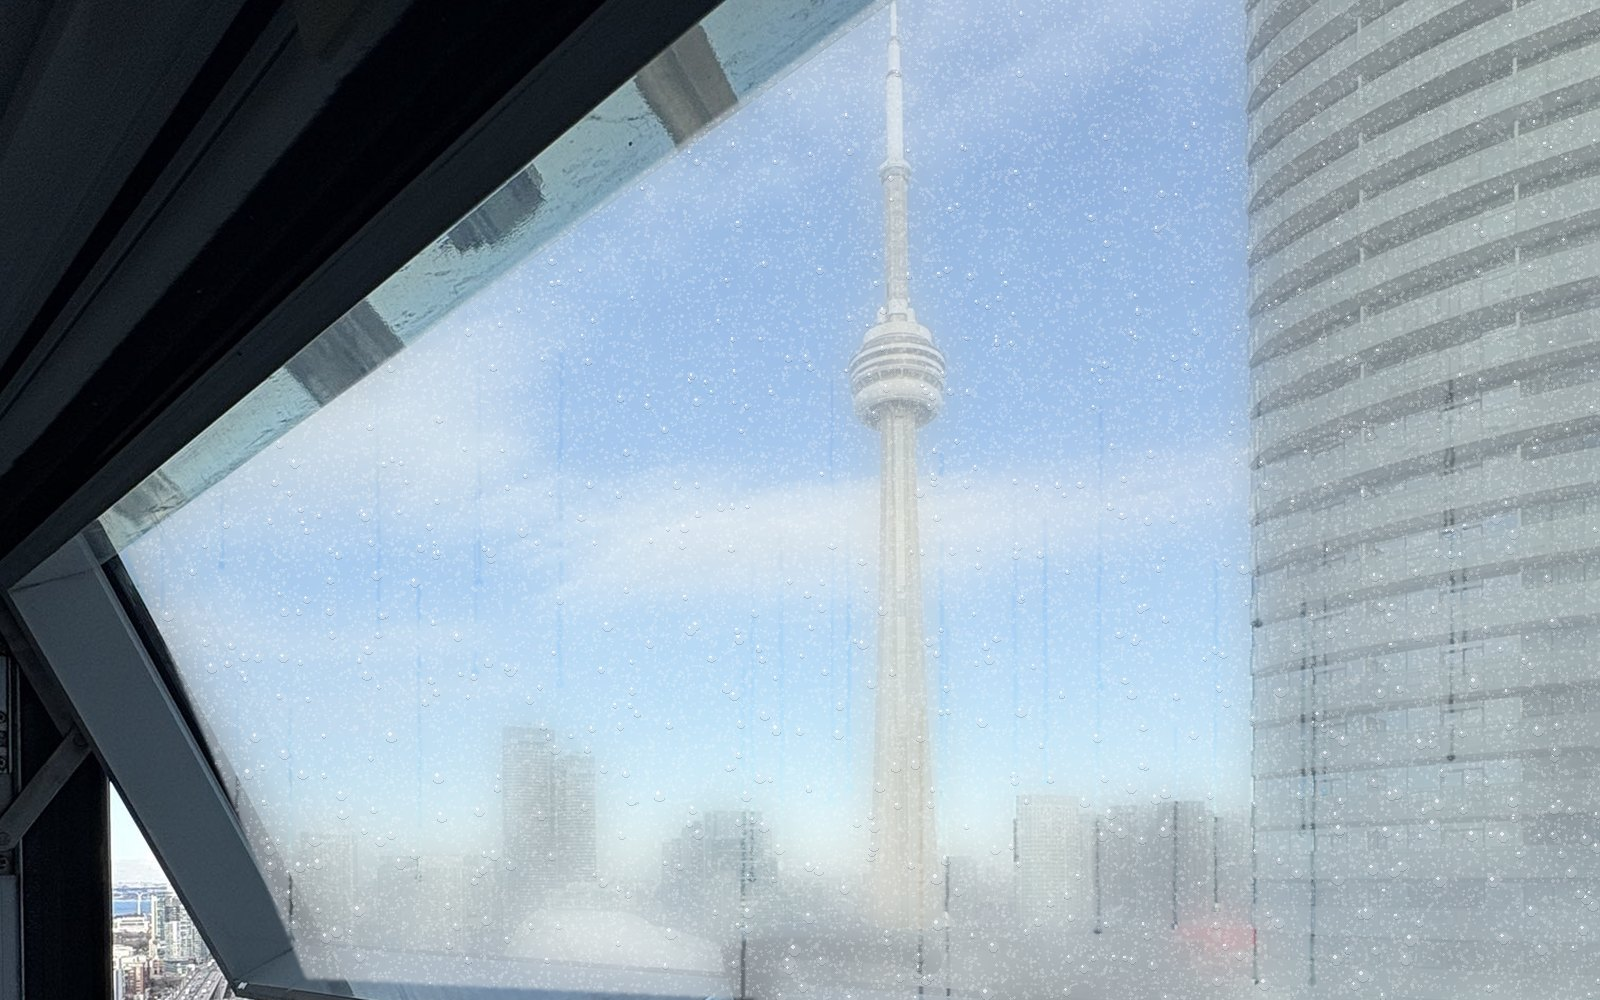
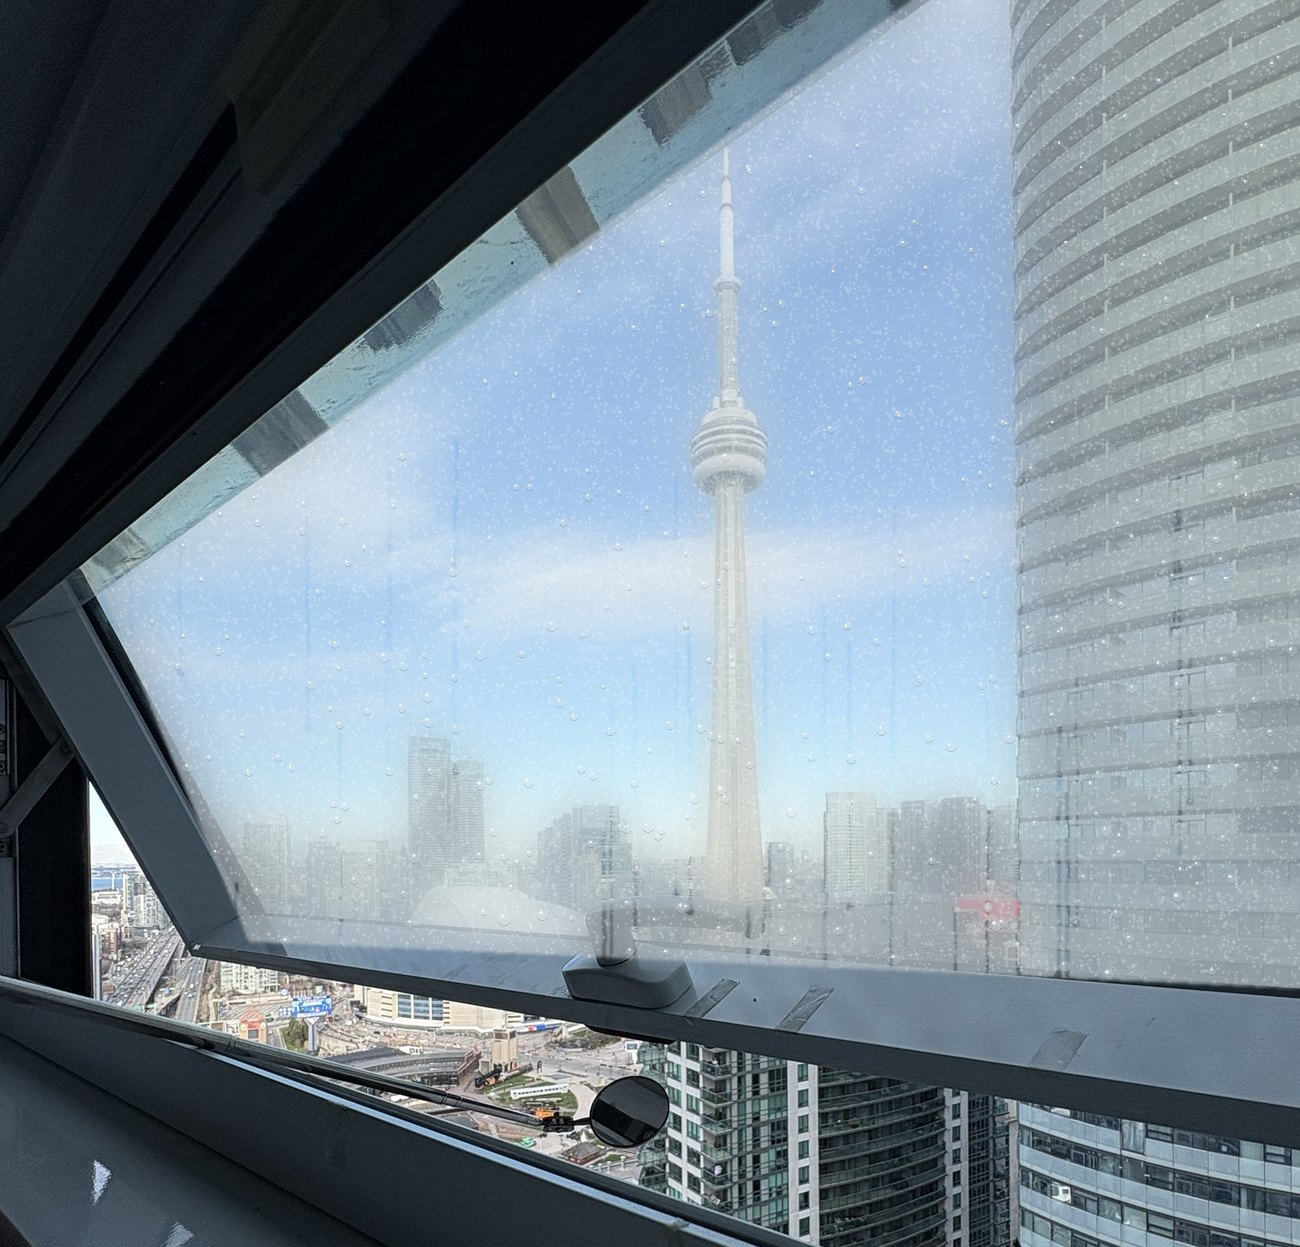
Foggy explainer: show the whole window and handle, faster, ends with a glass replacement
The full photo sits on a blurred backdrop with the zoom bubble beside it.
Timeline cut from 24 to 15 seconds. The fix step now shows the fogged
glass sliding out and a new glass unit, and the caption says we replace
the glass rather than reseal or defog it.

Claude-Session: https://claude.ai/code/session_01XtPso9DjD33RbQPHDzk2SX

diff --git a/site/assets/explainers.js b/site/assets/explainers.js
@@ -314,14 +314,22 @@
   function sceneFog(svg, id, root) {
     defs(svg, id);
     var clearUrl = root.dataset.clear, fogUrl = root.dataset.fog;
-    el('image', { href: clearUrl, x: 0, y: 0, width: 1200, height: 750, preserveAspectRatio: 'xMidYMid slice' }, svg);
+    // blurred backdrop fills the frame; the full photo (whole window + handle) sits on the left
+    var PX = 40, PW = 782, PH = 750;
+    el('image', { href: root.dataset.bg, x: 0, y: 0, width: 1200, height: 750, preserveAspectRatio: 'xMidYMid slice' }, svg);
+    el('rect', { x: PX - 2, y: 0, width: PW + 4, height: PH, fill: '#000', opacity: 0.25 }, svg);
+    el('image', { href: clearUrl, x: PX, y: 0, width: PW, height: PH, preserveAspectRatio: 'xMidYMid slice' }, svg);
     var mask = el('mask', { id: id + '-fogmask', maskUnits: 'userSpaceOnUse', x: 0, y: 0, width: 1200, height: 750 }, svg);
     var rg = el('radialGradient', { id: id + '-fogrg' }, svg);
     el('stop', { offset: 0.6, 'stop-color': '#fff' }, rg); el('stop', { offset: 1, 'stop-color': '#fff', 'stop-opacity': 0 }, rg);
-    var cxF = 168, cyF = 575; // failed corner: bottom-left of the glass, along the frame
+    var cxF = 154, cyF = 481; // failed corner: bottom-left of the glass, along the frame
     var fogCircle = el('circle', { cx: cxF, cy: cyF, r: 0, fill: 'url(#' + id + '-fogrg)' }, mask);
-    var fog = el('image', { href: fogUrl, x: 0, y: 0, width: 1200, height: 750, preserveAspectRatio: 'xMidYMid slice', mask: 'url(#' + id + '-fogmask)' }, svg);
-    var glassPoly = '95,413 657,0 1200,0 1200,750 583,750 230,734';
+    var glassPoly = '102,357 588,0 822,0 822,595 190,566';
+    var gclip = el('clipPath', { id: id + '-glassclip' }, svg);
+    el('polygon', { points: glassPoly }, gclip);
+    // the fogged glass slides out of the frame when we replace the unit
+    var fogSlide = el('g', null, el('g', { 'clip-path': 'url(#' + id + '-glassclip)' }, svg));
+    var fog = el('image', { href: fogUrl, x: PX, y: 0, width: PW, height: PH, preserveAspectRatio: 'xMidYMid slice', mask: 'url(#' + id + '-fogmask)' }, fogSlide);
     var newRing = el('polygon', { points: glassPoly, fill: 'none', stroke: C.green, 'stroke-width': 7, 'stroke-dasharray': '18 12', opacity: 0 }, svg);
     var crackMark = el('g', { opacity: 0 }, svg);
     el('circle', { cx: cxF, cy: cyF, r: 20, fill: 'none', stroke: C.red, 'stroke-width': 4 }, crackMark);
@@ -329,12 +337,12 @@
     titleBlock(svg, 30, 30, ['CONDO WINDOW · TORONTO', 'Sealed glass unit · edge seal']);
 
     // bubble: cross-section of the glass edge
-    var B = bubble(svg, id, 1040, 300, 140, cxF, cyF, 'EDGE OF THE GLASS');
-    var bx = 1040, by = 300, inn = B.inner;
+    var B = bubble(svg, id, 1030, 320, 140, cxF, cyF, 'EDGE OF THE GLASS');
+    var bx = 1030, by = 320, inn = B.inner;
     var top = by - 150, bot = by + 60;
     var p1x = bx - 62, p2x = bx + 38, pw = 24;
-    el('rect', { x: p1x, y: top, width: pw, height: bot - top, fill: '#CDE8F6', stroke: C.line, 'stroke-width': 1.5 }, inn);
-    el('rect', { x: p2x, y: top, width: pw, height: bot - top, fill: '#CDE8F6', stroke: C.line, 'stroke-width': 1.5 }, inn);
+    var panes = [el('rect', { x: p1x, y: top, width: pw, height: bot - top, fill: '#CDE8F6', stroke: C.line, 'stroke-width': 1.5 }, inn),
+      el('rect', { x: p2x, y: top, width: pw, height: bot - top, fill: '#CDE8F6', stroke: C.line, 'stroke-width': 1.5 }, inn)];
     var gapX0 = p1x + pw, gapX1 = p2x, spTop = bot - 46;
     el('rect', { x: gapX0 + 4, y: spTop, width: gapX1 - gapX0 - 8, height: 34, fill: '#B8BFC9', stroke: C.line, 'stroke-width': 1.5 }, inn);
     for (var d1 = 0; d1 < 8; d1++) el('circle', { cx: gapX0 + 14 + (d1 % 4) * 18, cy: spTop + 10 + Math.floor(d1 / 4) * 14, r: 4, fill: '#F2E7C9', stroke: C.line, 'stroke-width': 0.6 }, inn);
@@ -346,34 +354,35 @@
     var gasLabel = lab(bx - 13, top + 30, 'Argon', 'middle');
     var seed = 11; function rnd() { seed = (seed * 16807) % 2147483647; return seed / 2147483647; }
     var argon = [], moist = [];
-    for (var a = 0; a < 16; a++) argon.push({ n: el('circle', { r: 4.5, fill: '#8B6CD9', stroke: '#5B3FA8', 'stroke-width': 1 }, inn), x: gapX0 + 8 + rnd() * (gapX1 - gapX0 - 16), y: top + 40 + rnd() * (spTop - top - 50), ph: rnd() * 6, leave: 7.3 + rnd() * 3 });
-    for (var m = 0; m < 14; m++) moist.push({ n: el('circle', { r: 4.5, fill: C.blue, stroke: '#1F6FAE', 'stroke-width': 1 }, inn), x: gapX0 + 8 + rnd() * (gapX1 - gapX0 - 16), y: top + 30 + rnd() * (spTop - top - 40), ph: rnd() * 6, enter: 8 + rnd() * 3 });
+    for (var a = 0; a < 16; a++) argon.push({ n: el('circle', { r: 4.5, fill: '#8B6CD9', stroke: '#5B3FA8', 'stroke-width': 1 }, inn), x: gapX0 + 8 + rnd() * (gapX1 - gapX0 - 16), y: top + 40 + rnd() * (spTop - top - 50), ph: rnd() * 6, leave: 4.6 + rnd() * 2 });
+    for (var m = 0; m < 14; m++) moist.push({ n: el('circle', { r: 4.5, fill: C.blue, stroke: '#1F6FAE', 'stroke-width': 1 }, inn), x: gapX0 + 8 + rnd() * (gapX1 - gapX0 - 16), y: top + 30 + rnd() * (spTop - top - 40), ph: rnd() * 6, enter: 5 + rnd() * 2 });
     var condense = el('g', { opacity: 0 }, inn);
     for (var c2 = 0; c2 < 10; c2++) { el('circle', { cx: gapX0 + 3, cy: top + 30 + c2 * 14, r: 3, fill: '#ffffff', stroke: C.blue, 'stroke-width': 1 }, condense); el('circle', { cx: gapX1 - 3, cy: top + 36 + c2 * 14, r: 3, fill: '#ffffff', stroke: C.blue, 'stroke-width': 1 }, condense); }
     var crackX = bx - 6, crackY = bot + 4;
 
     return function update(t, time) {
-      var grow = ease(ramp(t, 11, 15.5)), clear = ease(ramp(t, 16.2, 18.2));
-      fogCircle.setAttribute('r', (grow * 1400).toFixed(1));
-      fog.setAttribute('opacity', 1 - clear);
-      crackMark.setAttribute('opacity', ramp(t, 4, 4.5) * (1 - ramp(t, 16, 16.6)));
+      var grow = ease(ramp(t, 7, 10)), clear = ease(ramp(t, 10.8, 12.2));
+      fogCircle.setAttribute('r', (grow * 1000).toFixed(1));
+      fogSlide.setAttribute('transform', 'translate(' + (clear * 820).toFixed(1) + ' 0)');
+      crackMark.setAttribute('opacity', ramp(t, 2.5, 3) * (1 - ramp(t, 10.5, 11)));
       var pk = (time * 1.2) % 1; pulse.setAttribute('r', 20 + pk * 26); pulse.setAttribute('opacity', 1 - pk);
-      newRing.setAttribute('opacity', ramp(t, 16, 16.6) * (1 - ramp(t, 22, 23)));
-      showBubble(B, ramp(t, 0.3, 1.1) * (1 - ramp(t, 11.5, 12.2) * (1 - ramp(t, 15.8, 16.4))));
-      var fixed = t >= 16.2;
-      crack.setAttribute('opacity', ramp(t, 4, 5) * (fixed ? 0 : 1));
+      newRing.setAttribute('opacity', ramp(t, 10.6, 11.1) * (1 - ramp(t, 14.5, 15.3)));
+      showBubble(B, ramp(t, 0.3, 1.0));
+      var fixed = t >= 10.8;
+      crack.setAttribute('opacity', ramp(t, 2.5, 3.3) * (fixed ? 0 : 1));
       seal.setAttribute('fill', fixed ? '#16301F' : '#1F242D');
       seal.setAttribute('stroke', fixed ? C.green : C.line);
-      B.tagText.textContent = fixed ? 'NEW SEALED UNIT' : 'EDGE OF THE GLASS';
-      condense.setAttribute('opacity', fixed ? 0 : ramp(t, 11, 13));
-      gasLabel.textContent = fixed ? 'New argon' : (t > 9 ? 'Humid air' : 'Argon');
+      B.tagText.textContent = fixed ? 'NEW GLASS UNIT' : 'EDGE OF THE GLASS';
+      panes.forEach(function (pn) { pn.setAttribute('fill', fixed ? '#BFEBD2' : '#CDE8F6'); pn.setAttribute('stroke', fixed ? C.green : C.line); });
+      condense.setAttribute('opacity', fixed ? 0 : ramp(t, 7, 8.5));
+      gasLabel.textContent = fixed ? 'New argon' : (t > 6 ? 'Humid air' : 'Argon');
       argon.forEach(function (p) {
         var x = p.x + Math.sin(time * 1.3 + p.ph) * 5, y = p.y + Math.cos(time * 1.1 + p.ph) * 5, op = 1;
         if (!fixed && t > p.leave) {
           var k = ramp(t, p.leave, p.leave + 2.2);
           x = lerp(x, crackX, k); y = lerp(y, crackY + k * 50, k); op = 1 - ramp(t, p.leave + 1.6, p.leave + 2.2);
         }
-        if (fixed) op = ramp(t, 17, 18);
+        if (fixed) op = ramp(t, 11.2, 12);
         p.n.setAttribute('cx', x.toFixed(1)); p.n.setAttribute('cy', y.toFixed(1)); p.n.setAttribute('opacity', op);
       });
       moist.forEach(function (p) {

diff --git a/src/assets/explainers.js b/src/assets/explainers.js
@@ -314,14 +314,22 @@
   function sceneFog(svg, id, root) {
     defs(svg, id);
     var clearUrl = root.dataset.clear, fogUrl = root.dataset.fog;
-    el('image', { href: clearUrl, x: 0, y: 0, width: 1200, height: 750, preserveAspectRatio: 'xMidYMid slice' }, svg);
+    // blurred backdrop fills the frame; the full photo (whole window + handle) sits on the left
+    var PX = 40, PW = 782, PH = 750;
+    el('image', { href: root.dataset.bg, x: 0, y: 0, width: 1200, height: 750, preserveAspectRatio: 'xMidYMid slice' }, svg);
+    el('rect', { x: PX - 2, y: 0, width: PW + 4, height: PH, fill: '#000', opacity: 0.25 }, svg);
+    el('image', { href: clearUrl, x: PX, y: 0, width: PW, height: PH, preserveAspectRatio: 'xMidYMid slice' }, svg);
     var mask = el('mask', { id: id + '-fogmask', maskUnits: 'userSpaceOnUse', x: 0, y: 0, width: 1200, height: 750 }, svg);
     var rg = el('radialGradient', { id: id + '-fogrg' }, svg);
     el('stop', { offset: 0.6, 'stop-color': '#fff' }, rg); el('stop', { offset: 1, 'stop-color': '#fff', 'stop-opacity': 0 }, rg);
-    var cxF = 168, cyF = 575; // failed corner: bottom-left of the glass, along the frame
+    var cxF = 154, cyF = 481; // failed corner: bottom-left of the glass, along the frame
     var fogCircle = el('circle', { cx: cxF, cy: cyF, r: 0, fill: 'url(#' + id + '-fogrg)' }, mask);
-    var fog = el('image', { href: fogUrl, x: 0, y: 0, width: 1200, height: 750, preserveAspectRatio: 'xMidYMid slice', mask: 'url(#' + id + '-fogmask)' }, svg);
-    var glassPoly = '95,413 657,0 1200,0 1200,750 583,750 230,734';
+    var glassPoly = '102,357 588,0 822,0 822,595 190,566';
+    var gclip = el('clipPath', { id: id + '-glassclip' }, svg);
+    el('polygon', { points: glassPoly }, gclip);
+    // the fogged glass slides out of the frame when we replace the unit
+    var fogSlide = el('g', null, el('g', { 'clip-path': 'url(#' + id + '-glassclip)' }, svg));
+    var fog = el('image', { href: fogUrl, x: PX, y: 0, width: PW, height: PH, preserveAspectRatio: 'xMidYMid slice', mask: 'url(#' + id + '-fogmask)' }, fogSlide);
     var newRing = el('polygon', { points: glassPoly, fill: 'none', stroke: C.green, 'stroke-width': 7, 'stroke-dasharray': '18 12', opacity: 0 }, svg);
     var crackMark = el('g', { opacity: 0 }, svg);
     el('circle', { cx: cxF, cy: cyF, r: 20, fill: 'none', stroke: C.red, 'stroke-width': 4 }, crackMark);
@@ -329,12 +337,12 @@
     titleBlock(svg, 30, 30, ['CONDO WINDOW · TORONTO', 'Sealed glass unit · edge seal']);
 
     // bubble: cross-section of the glass edge
-    var B = bubble(svg, id, 1040, 300, 140, cxF, cyF, 'EDGE OF THE GLASS');
-    var bx = 1040, by = 300, inn = B.inner;
+    var B = bubble(svg, id, 1030, 320, 140, cxF, cyF, 'EDGE OF THE GLASS');
+    var bx = 1030, by = 320, inn = B.inner;
     var top = by - 150, bot = by + 60;
     var p1x = bx - 62, p2x = bx + 38, pw = 24;
-    el('rect', { x: p1x, y: top, width: pw, height: bot - top, fill: '#CDE8F6', stroke: C.line, 'stroke-width': 1.5 }, inn);
-    el('rect', { x: p2x, y: top, width: pw, height: bot - top, fill: '#CDE8F6', stroke: C.line, 'stroke-width': 1.5 }, inn);
+    var panes = [el('rect', { x: p1x, y: top, width: pw, height: bot - top, fill: '#CDE8F6', stroke: C.line, 'stroke-width': 1.5 }, inn),
+      el('rect', { x: p2x, y: top, width: pw, height: bot - top, fill: '#CDE8F6', stroke: C.line, 'stroke-width': 1.5 }, inn)];
     var gapX0 = p1x + pw, gapX1 = p2x, spTop = bot - 46;
     el('rect', { x: gapX0 + 4, y: spTop, width: gapX1 - gapX0 - 8, height: 34, fill: '#B8BFC9', stroke: C.line, 'stroke-width': 1.5 }, inn);
     for (var d1 = 0; d1 < 8; d1++) el('circle', { cx: gapX0 + 14 + (d1 % 4) * 18, cy: spTop + 10 + Math.floor(d1 / 4) * 14, r: 4, fill: '#F2E7C9', stroke: C.line, 'stroke-width': 0.6 }, inn);
@@ -346,34 +354,35 @@
     var gasLabel = lab(bx - 13, top + 30, 'Argon', 'middle');
     var seed = 11; function rnd() { seed = (seed * 16807) % 2147483647; return seed / 2147483647; }
     var argon = [], moist = [];
-    for (var a = 0; a < 16; a++) argon.push({ n: el('circle', { r: 4.5, fill: '#8B6CD9', stroke: '#5B3FA8', 'stroke-width': 1 }, inn), x: gapX0 + 8 + rnd() * (gapX1 - gapX0 - 16), y: top + 40 + rnd() * (spTop - top - 50), ph: rnd() * 6, leave: 7.3 + rnd() * 3 });
-    for (var m = 0; m < 14; m++) moist.push({ n: el('circle', { r: 4.5, fill: C.blue, stroke: '#1F6FAE', 'stroke-width': 1 }, inn), x: gapX0 + 8 + rnd() * (gapX1 - gapX0 - 16), y: top + 30 + rnd() * (spTop - top - 40), ph: rnd() * 6, enter: 8 + rnd() * 3 });
+    for (var a = 0; a < 16; a++) argon.push({ n: el('circle', { r: 4.5, fill: '#8B6CD9', stroke: '#5B3FA8', 'stroke-width': 1 }, inn), x: gapX0 + 8 + rnd() * (gapX1 - gapX0 - 16), y: top + 40 + rnd() * (spTop - top - 50), ph: rnd() * 6, leave: 4.6 + rnd() * 2 });
+    for (var m = 0; m < 14; m++) moist.push({ n: el('circle', { r: 4.5, fill: C.blue, stroke: '#1F6FAE', 'stroke-width': 1 }, inn), x: gapX0 + 8 + rnd() * (gapX1 - gapX0 - 16), y: top + 30 + rnd() * (spTop - top - 40), ph: rnd() * 6, enter: 5 + rnd() * 2 });
     var condense = el('g', { opacity: 0 }, inn);
     for (var c2 = 0; c2 < 10; c2++) { el('circle', { cx: gapX0 + 3, cy: top + 30 + c2 * 14, r: 3, fill: '#ffffff', stroke: C.blue, 'stroke-width': 1 }, condense); el('circle', { cx: gapX1 - 3, cy: top + 36 + c2 * 14, r: 3, fill: '#ffffff', stroke: C.blue, 'stroke-width': 1 }, condense); }
     var crackX = bx - 6, crackY = bot + 4;
 
     return function update(t, time) {
-      var grow = ease(ramp(t, 11, 15.5)), clear = ease(ramp(t, 16.2, 18.2));
-      fogCircle.setAttribute('r', (grow * 1400).toFixed(1));
-      fog.setAttribute('opacity', 1 - clear);
-      crackMark.setAttribute('opacity', ramp(t, 4, 4.5) * (1 - ramp(t, 16, 16.6)));
+      var grow = ease(ramp(t, 7, 10)), clear = ease(ramp(t, 10.8, 12.2));
+      fogCircle.setAttribute('r', (grow * 1000).toFixed(1));
+      fogSlide.setAttribute('transform', 'translate(' + (clear * 820).toFixed(1) + ' 0)');
+      crackMark.setAttribute('opacity', ramp(t, 2.5, 3) * (1 - ramp(t, 10.5, 11)));
       var pk = (time * 1.2) % 1; pulse.setAttribute('r', 20 + pk * 26); pulse.setAttribute('opacity', 1 - pk);
-      newRing.setAttribute('opacity', ramp(t, 16, 16.6) * (1 - ramp(t, 22, 23)));
-      showBubble(B, ramp(t, 0.3, 1.1) * (1 - ramp(t, 11.5, 12.2) * (1 - ramp(t, 15.8, 16.4))));
-      var fixed = t >= 16.2;
-      crack.setAttribute('opacity', ramp(t, 4, 5) * (fixed ? 0 : 1));
+      newRing.setAttribute('opacity', ramp(t, 10.6, 11.1) * (1 - ramp(t, 14.5, 15.3)));
+      showBubble(B, ramp(t, 0.3, 1.0));
+      var fixed = t >= 10.8;
+      crack.setAttribute('opacity', ramp(t, 2.5, 3.3) * (fixed ? 0 : 1));
       seal.setAttribute('fill', fixed ? '#16301F' : '#1F242D');
       seal.setAttribute('stroke', fixed ? C.green : C.line);
-      B.tagText.textContent = fixed ? 'NEW SEALED UNIT' : 'EDGE OF THE GLASS';
-      condense.setAttribute('opacity', fixed ? 0 : ramp(t, 11, 13));
-      gasLabel.textContent = fixed ? 'New argon' : (t > 9 ? 'Humid air' : 'Argon');
+      B.tagText.textContent = fixed ? 'NEW GLASS UNIT' : 'EDGE OF THE GLASS';
+      panes.forEach(function (pn) { pn.setAttribute('fill', fixed ? '#BFEBD2' : '#CDE8F6'); pn.setAttribute('stroke', fixed ? C.green : C.line); });
+      condense.setAttribute('opacity', fixed ? 0 : ramp(t, 7, 8.5));
+      gasLabel.textContent = fixed ? 'New argon' : (t > 6 ? 'Humid air' : 'Argon');
       argon.forEach(function (p) {
         var x = p.x + Math.sin(time * 1.3 + p.ph) * 5, y = p.y + Math.cos(time * 1.1 + p.ph) * 5, op = 1;
         if (!fixed && t > p.leave) {
           var k = ramp(t, p.leave, p.leave + 2.2);
           x = lerp(x, crackX, k); y = lerp(y, crackY + k * 50, k); op = 1 - ramp(t, p.leave + 1.6, p.leave + 2.2);
         }
-        if (fixed) op = ramp(t, 17, 18);
+        if (fixed) op = ramp(t, 11.2, 12);
         p.n.setAttribute('cx', x.toFixed(1)); p.n.setAttribute('cy', y.toFixed(1)); p.n.setAttribute('opacity', op);
       });
       moist.forEach(function (p) {

diff --git a/site/foggy-window-repair/index.html b/site/foggy-window-repair/index.html
@@ -82,7 +82,7 @@
 <section class="trust" aria-label="Why choose us"><div class="wrap"><div><svg viewBox="0 0 24 24" fill="none" stroke="currentColor" stroke-width="1.8" stroke-linecap="round" stroke-linejoin="round" aria-hidden="true"><path d="M12 3l8 3v6c0 5-3.5 8-8 9-4.5-1-8-4-8-9V6z"/><path d="M8.5 12l2.5 2.5 4.5-5"/></svg><span>Insured & WSIB covered</span></div><div><svg viewBox="0 0 24 24" fill="none" stroke="currentColor" stroke-width="1.8" stroke-linecap="round" stroke-linejoin="round" aria-hidden="true"><path d="M14 6a4 4 0 00-5 5l-6 6 3 3 6-6a4 4 0 005-5l-3 3-3-3z"/></svg><span>1-year workmanship warranty</span></div><div><svg viewBox="0 0 24 24" fill="none" stroke="currentColor" stroke-width="1.8" stroke-linecap="round" stroke-linejoin="round" aria-hidden="true"><path d="M13 2L4 14h7l-1 8 9-12h-7z"/></svg><span>Same-day appointments</span></div><div><svg viewBox="0 0 24 24" fill="none" stroke="currentColor" stroke-width="1.8" stroke-linecap="round" stroke-linejoin="round" aria-hidden="true"><path d="M3 12V3h9l9 9-9 9z"/><circle cx="7.5" cy="7.5" r="1.5"/></svg><span>Free estimates</span></div></div></section>
 
 <section class="section ex-section"><div class="wrap">
-  <div class="explainer" data-scene="fog" data-duration="24" data-render="2d" data-clear="/photos/explainers/fog-condo-clear.jpg" data-fog="/photos/explainers/fog-condo-fog.jpg">
+  <div class="explainer" data-scene="fog" data-duration="15" data-render="2d" data-clear="/photos/explainers/fog-condo-clear.jpg" data-fog="/photos/explainers/fog-condo-fog.jpg" data-bg="/photos/explainers/fog-condo-bg.jpg">
     <div class="ex-head"><span class="tag">See the problem</span><h2>Where the fog between the panes comes from</h2></div>
     <div class="ex-stage">
       <svg viewBox="0 0 1200 750" role="img" aria-label="Where the fog between the panes comes from. Animated drawing; the steps are listed below."></svg>
@@ -90,7 +90,7 @@
       <button type="button" class="ex-play" aria-pressed="true"><svg viewBox="0 0 24 24" aria-hidden="true"><path class="i-pause" d="M7 5h3v14H7zM14 5h3v14h-3z"/><path class="i-play" d="M8 5l11 7-11 7z"/></svg><span>Pause</span></button>
       <div class="ex-bar" aria-hidden="true"></div>
     </div>
-    <ol class="ex-steps"><li data-start="0"><span class="ex-num">1</span><span class="ex-text">A double-pane window is two sheets of glass sealed at the edge, with argon gas between them.</span></li><li data-start="4"><span class="ex-num">2</span><span class="ex-text">Years of freeze-thaw, sun and wind crack the edge seal.</span></li><li data-start="7"><span class="ex-num">3</span><span class="ex-text">The argon leaks out and humid air gets in.</span></li><li data-start="11"><span class="ex-num">4</span><span class="ex-text">The moisture condenses between the panes. You can&#x27;t wipe it off because it&#x27;s inside.</span></li><li data-start="16"><span class="ex-num">5</span><span class="ex-text">We replace only the sealed glass unit. The frame stays in place.</span></li><li data-start="19"><span class="ex-num">6</span><span class="ex-text">New seal, fresh argon, and a clear view again.</span></li></ol>
+    <ol class="ex-steps"><li data-start="0"><span class="ex-num">1</span><span class="ex-text">A double-pane window is two sheets of glass sealed at the edge, with argon gas between them.</span></li><li data-start="2.5"><span class="ex-num">2</span><span class="ex-text">Years of freeze-thaw, sun and wind crack the edge seal.</span></li><li data-start="4.5"><span class="ex-num">3</span><span class="ex-text">The argon leaks out and humid air gets in.</span></li><li data-start="7"><span class="ex-num">4</span><span class="ex-text">The moisture condenses between the panes. You can&#x27;t wipe it off because it&#x27;s inside.</span></li><li data-start="10.5"><span class="ex-num">5</span><span class="ex-text">We don&#x27;t reseal or &quot;defog&quot; it. We replace the glass with a new unit made to size. The frame and handle stay.</span></li><li data-start="12.5"><span class="ex-num">6</span><span class="ex-text">New glass, clear view of the city again.</span></li></ol>
   </div>
 </div></section>
 <script src="/assets/explainers.js" defer></script>

diff --git a/explainers.py b/explainers.py
@@ -20,16 +20,17 @@ EXPLAINERS = {
     },
     "foggy-window-repair": {
         "scene": "fog",
-        "duration": 24,
-        "images": {"clear": "/photos/explainers/fog-condo-clear.jpg", "fog": "/photos/explainers/fog-condo-fog.jpg"},
+        "duration": 15,
+        "images": {"clear": "/photos/explainers/fog-condo-clear.jpg", "fog": "/photos/explainers/fog-condo-fog.jpg",
+                   "bg": "/photos/explainers/fog-condo-bg.jpg"},
         "heading": "Where the fog between the panes comes from",
         "steps": [
             (0, "A double-pane window is two sheets of glass sealed at the edge, with argon gas between them."),
-            (4, "Years of freeze-thaw, sun and wind crack the edge seal."),
-            (7, "The argon leaks out and humid air gets in."),
-            (11, "The moisture condenses between the panes. You can't wipe it off because it's inside."),
-            (16, "We replace only the sealed glass unit. The frame stays in place."),
-            (19, "New seal, fresh argon, and a clear view again."),
+            (2.5, "Years of freeze-thaw, sun and wind crack the edge seal."),
+            (4.5, "The argon leaks out and humid air gets in."),
+            (7, "The moisture condenses between the panes. You can't wipe it off because it's inside."),
+            (10.5, "We don't reseal or \"defog\" it. We replace the glass with a new unit made to size. The frame and handle stay."),
+            (12.5, "New glass, clear view of the city again."),
         ],
     },
 }
